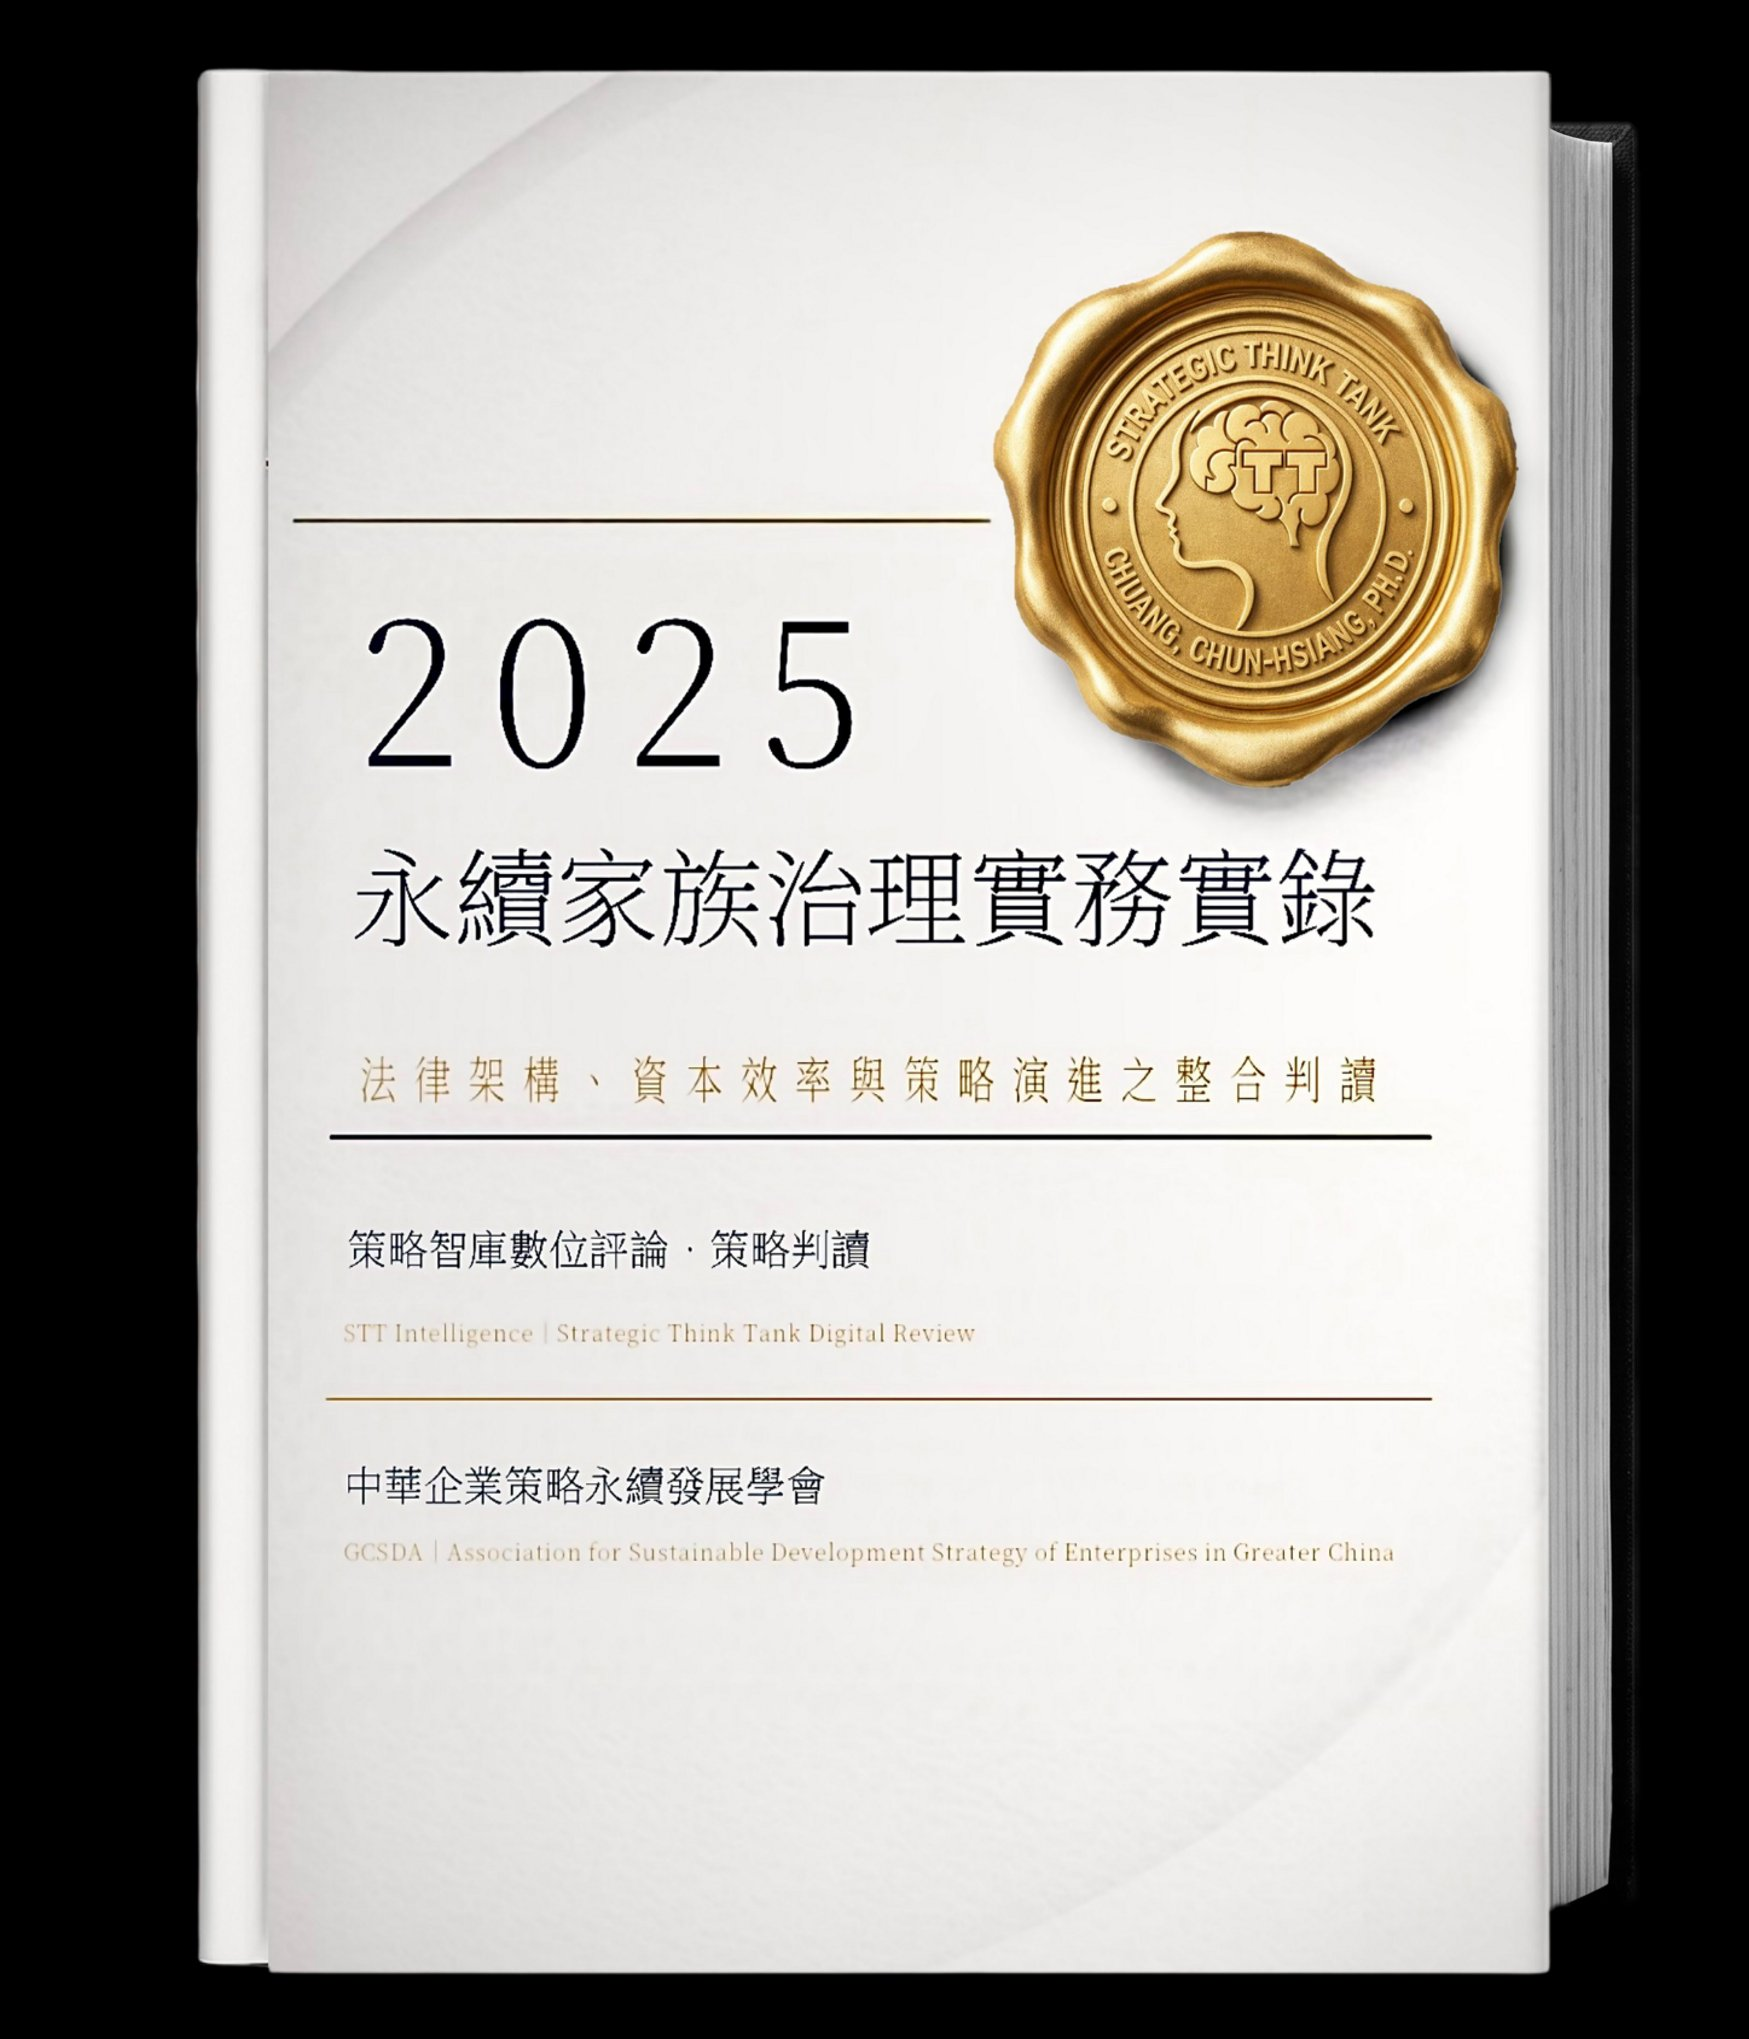
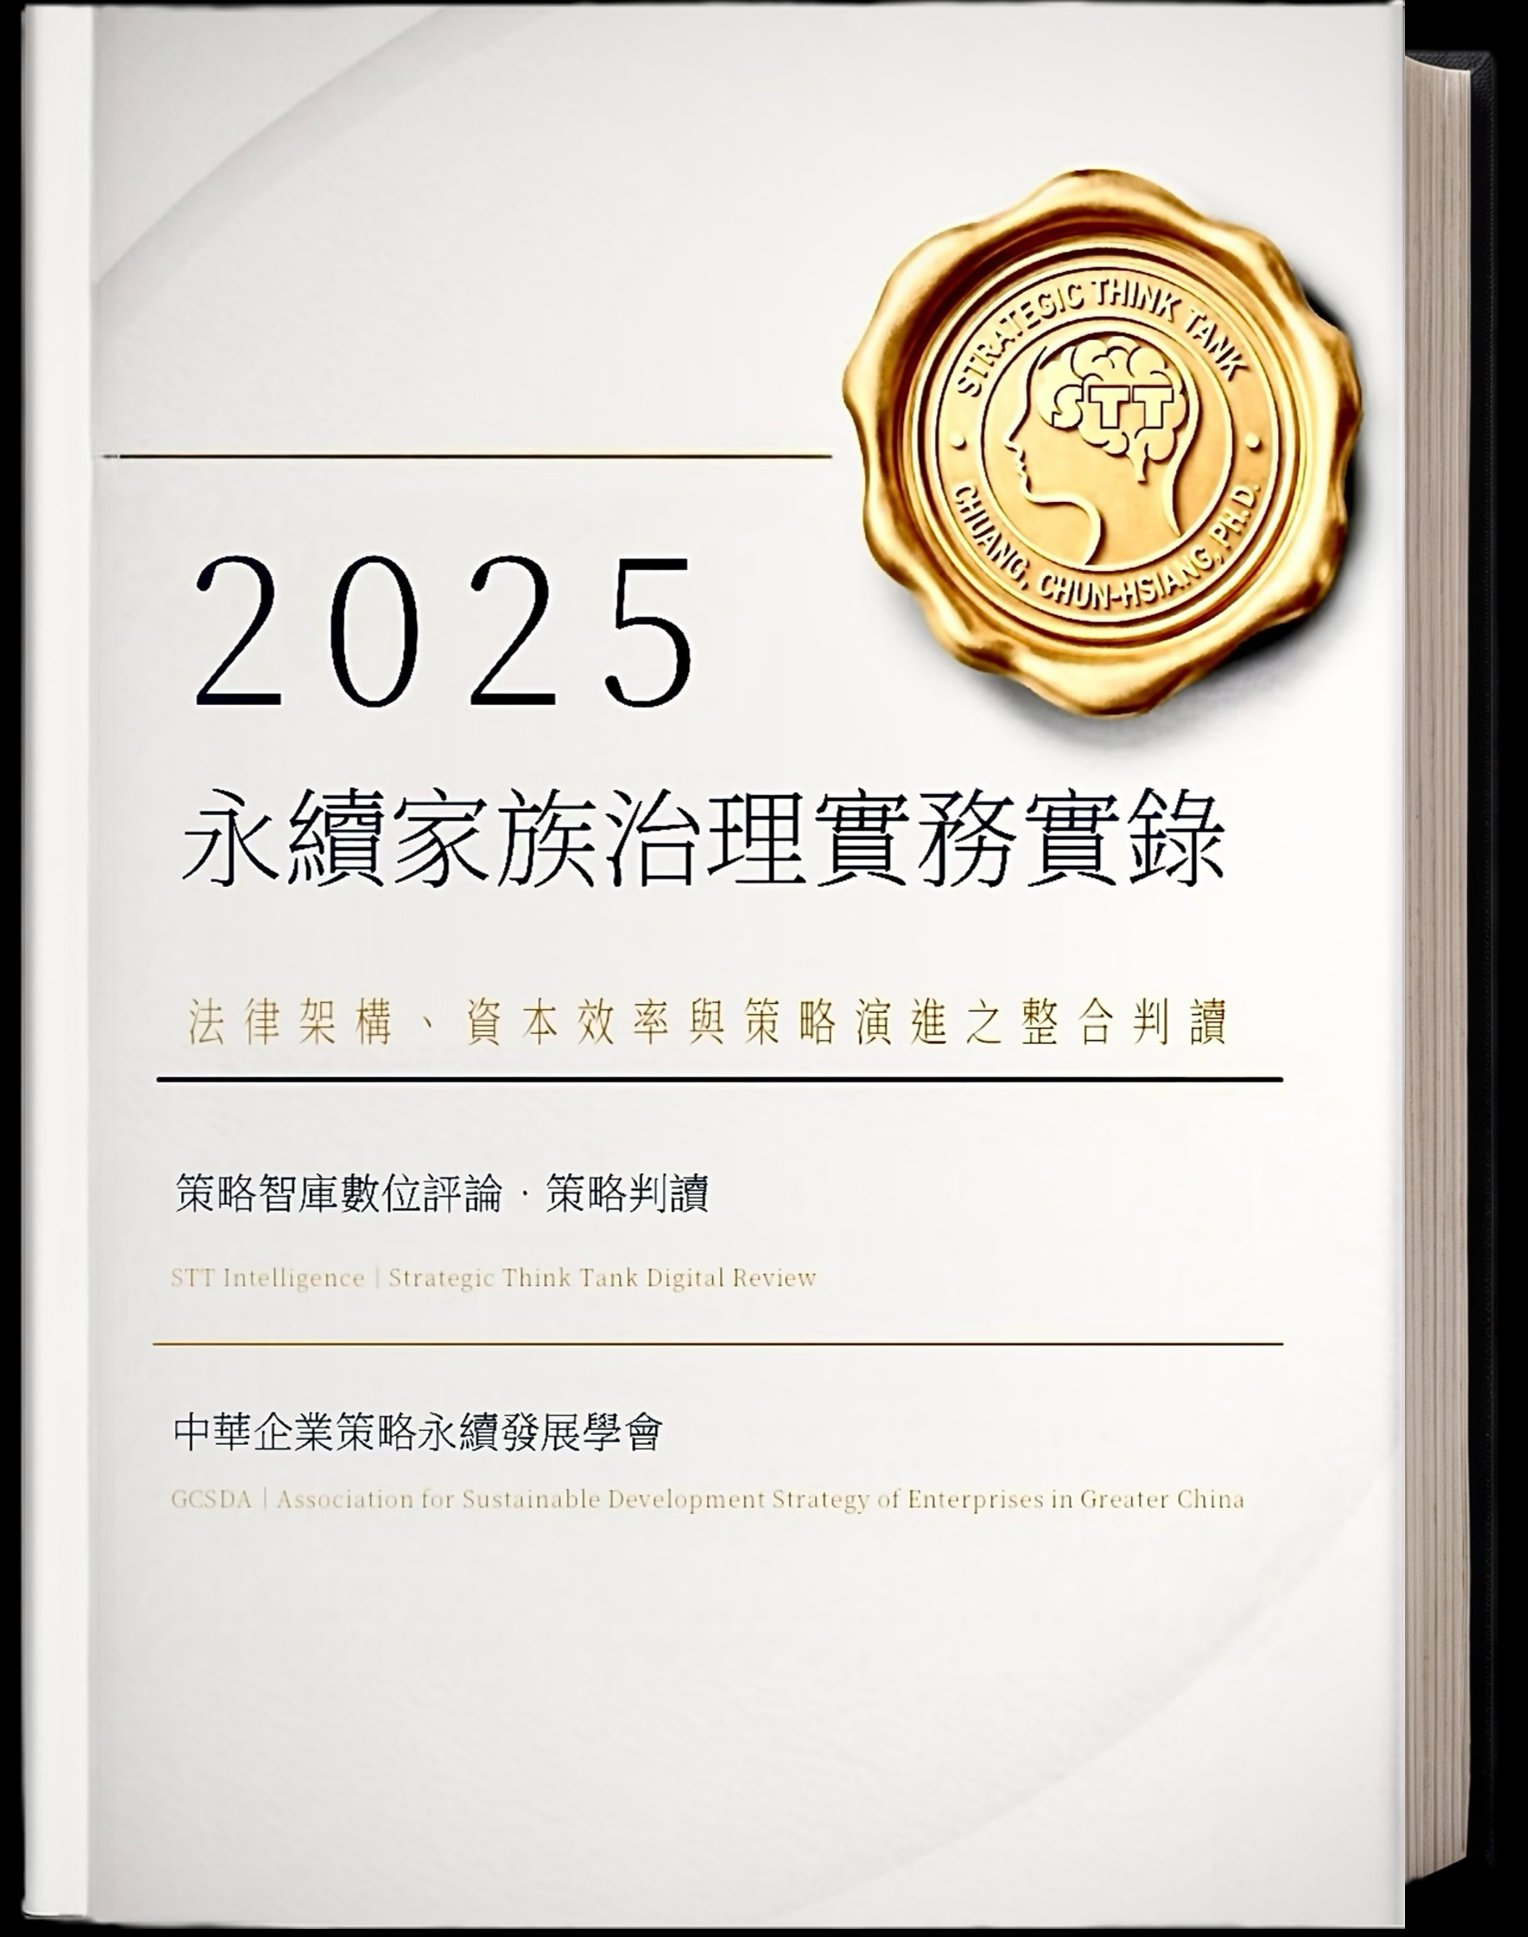
fix: align books to top, update cover images

diff --git a/src/pages/Books.tsx b/src/pages/Books.tsx
@@ -1,4 +1,4 @@
-import { useState } from "react";
+import { useState } from "react";
 import { motion, AnimatePresence } from "motion/react";
 import { books } from "../data/mockData";
 import { X, Eye, Landmark } from "lucide-react";
@@ -214,8 +214,8 @@ export default function Books({ onNavigate }: { onNavigate: (page: string) => vo
                   className="p-4 bg-transparent transition-all duration-700 cursor-pointer group"
                   onClick={() => handleBookClick(book.id)}
                 >
-                  <div className=\"relative overflow-visible bg-transparent transition-all duration-300\" style={{height:\"420px\"}}>
-                    <div className="w-full h-full flex items-center justify-center p-2 rounded-lg relative">
+                  <div className="relative aspect-[3/4] overflow-visible bg-transparent transition-all duration-300">
+                    <div className="w-full h-full flex items-start justify-center p-2 rounded-lg relative">
                       {/* Subtle golden ambient glow behind the transparent book */}
                       <div className="absolute inset-4 bg-gold-600/10 blur-[40px] rounded-full opacity-0 group-hover:opacity-100 transition-all duration-700 pointer-events-none"></div>
                       <img 
